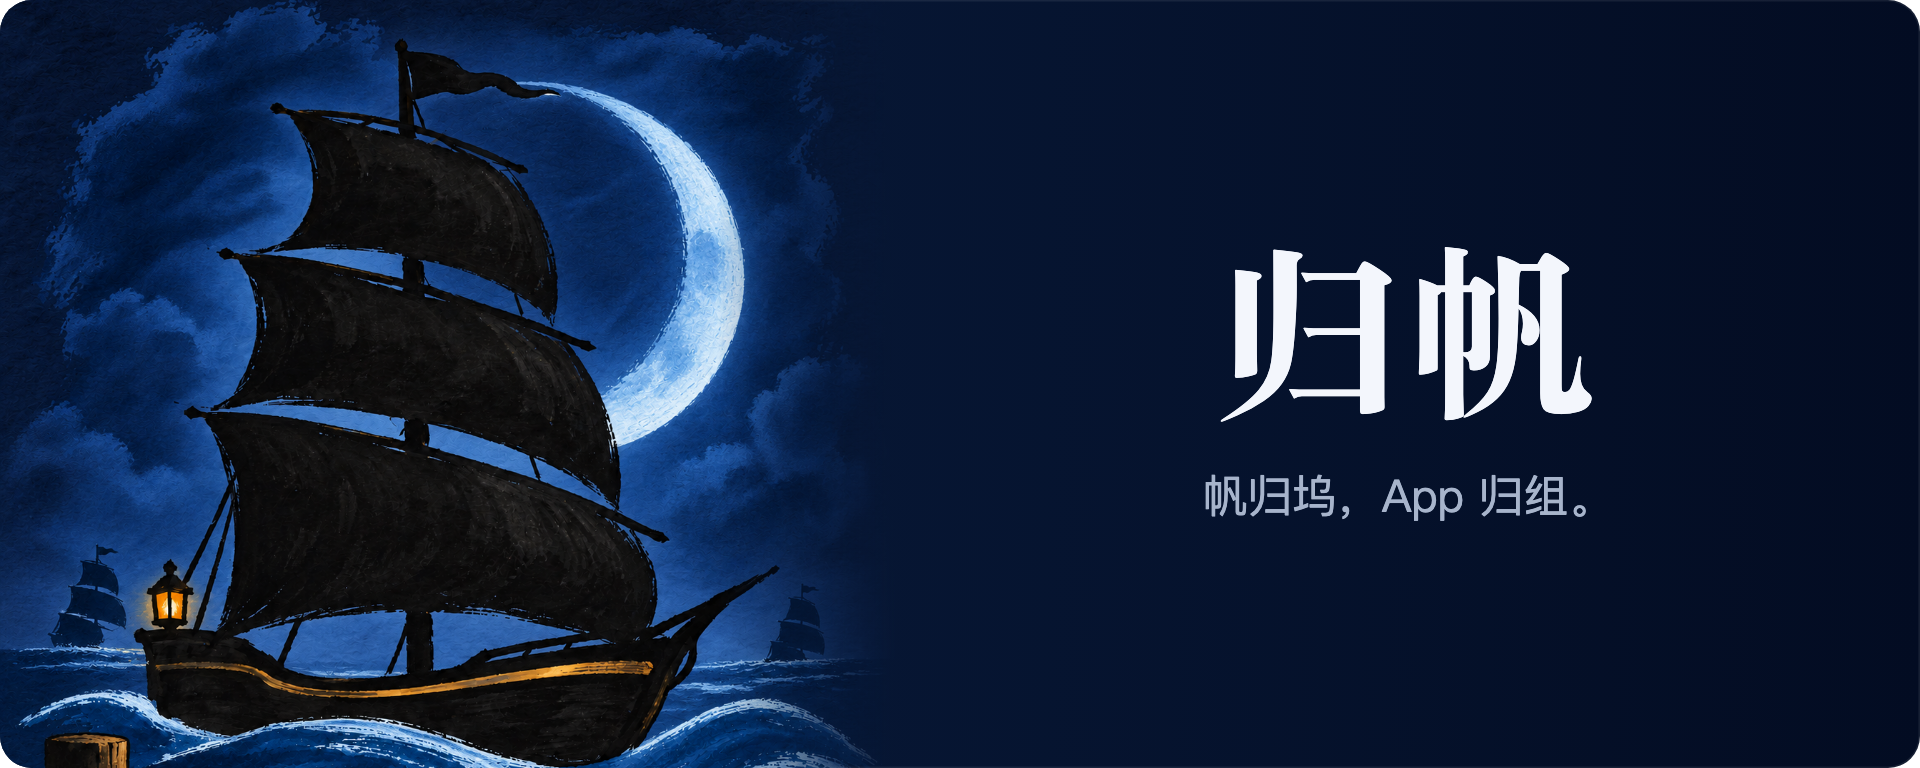
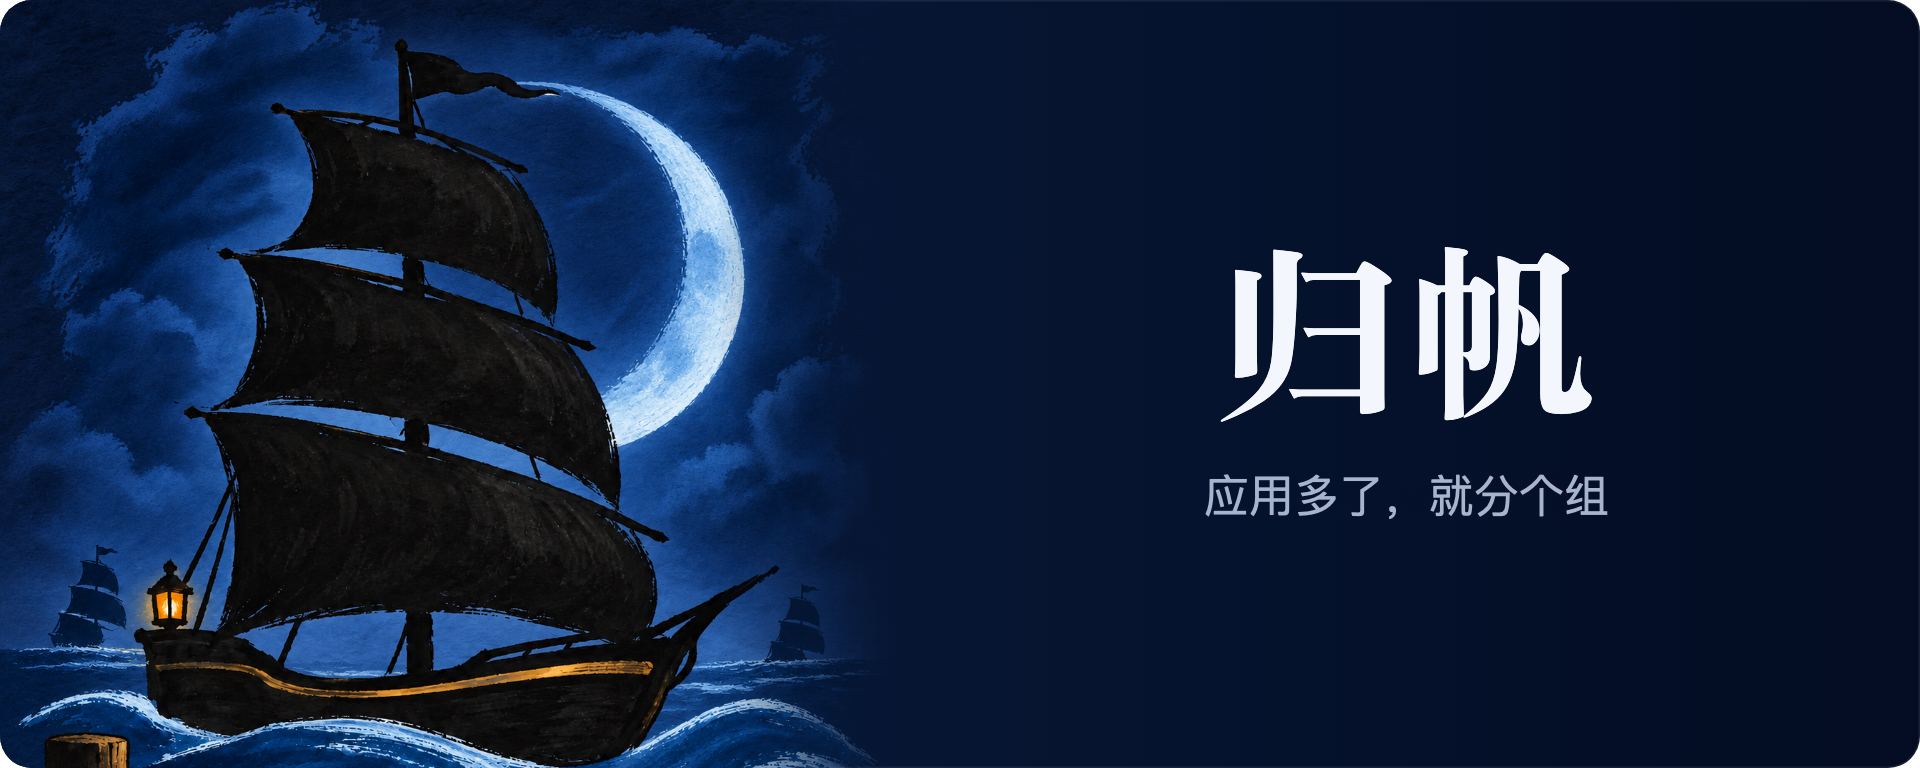
docs: 更新中文宣传标语与头图

Changed region(s): [[0.625, 0.5938, 0.8438, 0.6875]]

diff --git a/website/zh/index.html b/website/zh/index.html
@@ -16,7 +16,7 @@
     document.documentElement.classList.add("js");
   </script>
 
-  <title>归帆 —— 帆归坞，App 归组。</title>
+  <title>归帆 —— 应用多了，就分个组。</title>
 
   <meta
     name="description"
@@ -75,7 +75,7 @@
 
   <meta
     property="og:title"
-    content="归帆 —— 帆归坞，App 归组。"
+    content="归帆 —— 应用多了，就分个组。"
   >
 
   <meta
@@ -859,7 +859,7 @@
           <h1
             class="hero-title"
             id="hero-title"
-          >帆归坞，App&nbsp;归组。</h1>
+          >应用多了，就分个组。</h1>
 
           <p class="hero-lead">
             在 macOS 的 Dock 上增加 “组”：把 App、文件、访达文件夹与网页分类收纳进去，点击组即在 Dock 上方以网格展开，与原生 Dock 文件夹一样。
@@ -2289,7 +2289,7 @@
           <h2
             class="closing-title"
             id="closing-title"
-          >帆归坞，App&nbsp;归组。</h2>
+          >应用多了，就分个组。</h2>
 
           <div class="closing-actions">
             <a
@@ -2370,7 +2370,7 @@
           <span>归帆</span>
         </a>
 
-        <p>帆归坞，App 归组。</p>
+        <p>应用多了，就分个组。</p>
       </div>
 
       <nav

diff --git a/website/zh/download/index.html b/website/zh/download/index.html
@@ -1588,7 +1588,7 @@ open build/Flotilla.app</code></pre>
           <span>归帆</span>
         </a>
 
-        <p>帆归坞，App 归组。</p>
+        <p>应用多了，就分个组。</p>
       </div>
 
       <nav

diff --git a/website/zh/releases/index.html b/website/zh/releases/index.html
@@ -1144,7 +1144,7 @@
           <span>归帆</span>
         </a>
 
-        <p>帆归坞，App 归组。</p>
+        <p>应用多了，就分个组。</p>
       </div>
 
       <nav
